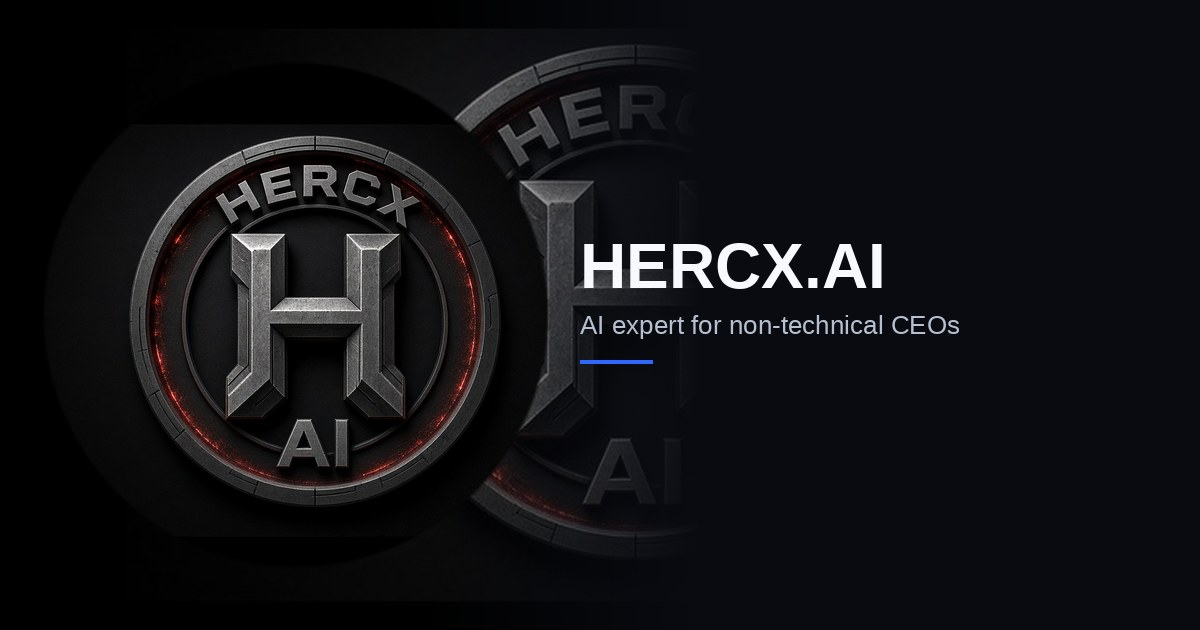
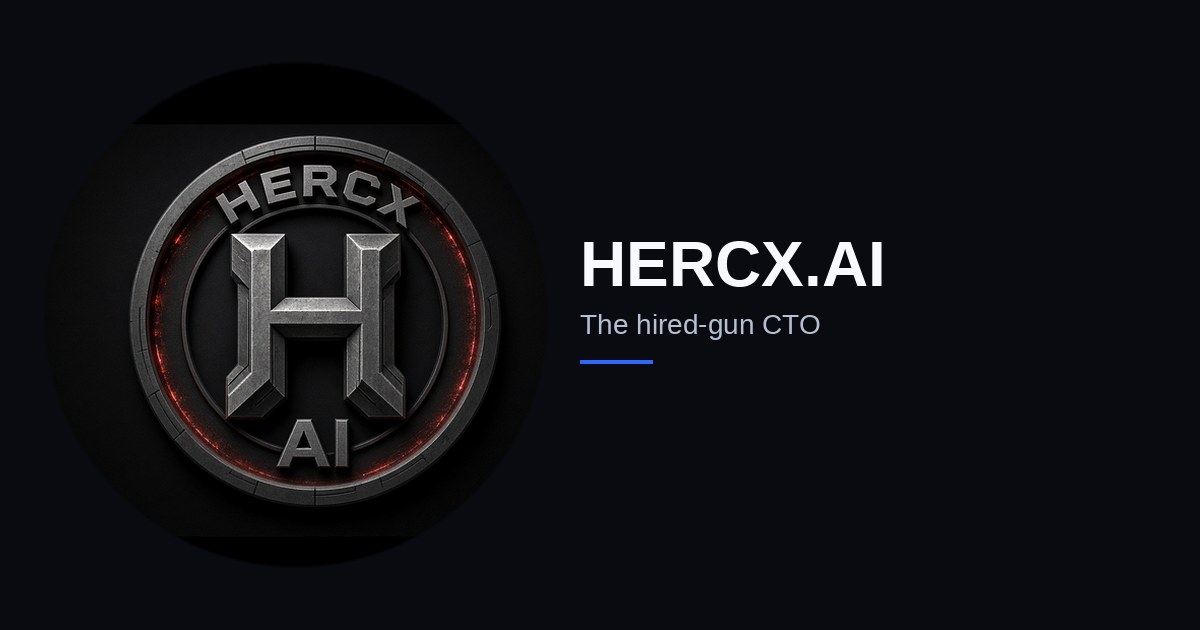
Reposition Hercx as the hired-gun CTO
Every founder and CEO can use Hercx CTO like a real CTO.

diff --git a/index.html b/index.html
@@ -3,17 +3,17 @@
 <head>
   <meta charset="utf-8" />
   <meta name="viewport" content="width=device-width, initial-scale=1" />
-  <title>Hercx.ai — AI expert for non-technical CEOs</title>
-  <meta name="description" content="Hercx turns the questions stuck in your head into clear answers, focused next steps, and the operating context to move with confidence." />
+  <title>Hercx.ai — The hired-gun CTO</title>
+  <meta name="description" content="Every founder. Every CEO. Use Hercx CTO just like a real CTO — stack, team, incidents, and the next ship date, without putting one on payroll." />
   <link rel="canonical" href="https://hercx.ai/" />
   <meta property="og:type" content="website" />
   <meta property="og:url" content="https://hercx.ai/" />
-  <meta property="og:title" content="Hercx.ai — AI expert for non-technical CEOs" />
-  <meta property="og:description" content="Your AI expert for the decisions only you can make." />
+  <meta property="og:title" content="Hercx.ai — The hired-gun CTO" />
+  <meta property="og:description" content="Every founder. Every CEO. Use Hercx CTO just like a real CTO." />
   <meta property="og:site_name" content="Hercx.ai" />
   <meta name="twitter:card" content="summary_large_image" />
-  <meta name="twitter:title" content="Hercx.ai — AI expert for non-technical CEOs" />
-  <meta name="twitter:description" content="Your AI expert for the decisions only you can make." />
+  <meta name="twitter:title" content="Hercx.ai — The hired-gun CTO" />
+  <meta name="twitter:description" content="Every founder. Every CEO. Use Hercx CTO just like a real CTO." />
   <meta name="theme-color" content="#090b11" />
   <link rel="icon" href="favicon.svg" type="image/svg+xml" />
   <link rel="icon" href="brand/seal-256.png" type="image/png" sizes="256x256" />
@@ -276,32 +276,32 @@
       <a class="brand" href="/"><img src="brand/seal-mark.png" alt="" width="40" height="40" />Hercx<span>.ai</span></a>
       <nav class="nav-links">
         <a href="#how">How it works</a>
-        <a href="#outcomes">Executive outcomes</a>
-        <a href="#access">Request access</a>
+        <a href="#seat">The CTO seat</a>
+        <a href="#access">Request a seat</a>
       </nav>
-      <a class="btn btn-primary btn-sm nav-cta" href="#access">Request access</a>
+      <a class="btn btn-primary btn-sm nav-cta" href="#access">Request a seat</a>
       <button class="menu-btn" type="button" aria-expanded="false" aria-controls="mobile-nav" aria-label="Open menu" id="menu-btn">
         <svg width="20" height="20" viewBox="0 0 24 24" fill="none" stroke="currentColor" stroke-width="2" aria-hidden="true"><path d="M4 6h16M4 12h16M4 18h16"/></svg>
       </button>
     </div>
     <div class="mobile-nav" id="mobile-nav" hidden>
       <a href="#how">How it works</a>
-      <a href="#outcomes">Executive outcomes</a>
-      <a href="#access">Request access</a>
+      <a href="#seat">The CTO seat</a>
+      <a href="#access">Request a seat</a>
     </div>
   </header>
 
   <main>
     <section class="wrap hero">
       <div>
-        <p class="eyebrow">The AI expert for non-technical CEOs</p>
-        <h1 class="display">Your AI expert for the decisions only you can make.</h1>
-        <p class="lede">Hercx turns the questions stuck in your head into clear answers, focused next steps, and the operating context to move with confidence.</p>
+        <p class="eyebrow">Hired-gun CTO</p>
+        <h1 class="display">The hired-gun CTO.</h1>
+        <p class="lede">Every founder. Every CEO. Use Hercx CTO just like a real CTO — stack, team, incidents, and the next ship date, without putting one on payroll.</p>
         <div class="hero-actions">
-          <a class="btn btn-primary" href="#access">Meet Hercx</a>
+          <a class="btn btn-primary" href="#access">Get Hercx CTO</a>
           <a class="btn btn-ghost" href="#how">See how it works</a>
         </div>
-        <p class="note"><span class="dot"></span> No technical translation layer required.</p>
+        <p class="note"><span class="dot"></span> Same seat as a real CTO. No equity package required.</p>
       </div>
 
       <div class="hero-seal">
@@ -310,18 +310,18 @@
     </section>
 
     <section class="wrap" style="padding-top:0">
-      <aside class="briefing" aria-label="Hercx CEO briefing">
+      <aside class="briefing" aria-label="Hercx CTO desk">
         <div class="briefing-top">
           <span style="display:flex;align-items:center;gap:8px">
             <img src="brand/seal-mark.png" alt="" width="20" height="20" style="border-radius:50%" />
-            Hercx / CEO briefing
+            Hercx / CTO desk
           </span>
           <span class="live">Live context</span>
         </div>
         <div class="focus">
-          <div class="kicker">Today’s focus</div>
-          <h3 class="display">Protect pipeline without delaying the next hire.</h3>
-          <p class="copy">Hercx found a move that protects momentum while keeping the operating plan intact.</p>
+          <div class="kicker">Today’s call</div>
+          <h3 class="display">Ship the platform without delaying the next hire.</h3>
+          <p class="copy">Hercx found a cut that protects the ship date and keeps the engineering plan intact.</p>
         </div>
         <div class="metrics">
           <div class="metric">
@@ -330,29 +330,29 @@
             <p class="copy">Up 0.8 this quarter</p>
           </div>
           <div class="metric">
-            <div class="kicker">Ready now</div>
+            <div class="kicker">Open calls</div>
             <b>03</b>
-            <p class="copy">Decisions need your call</p>
+            <p class="copy">Need the CTO voice</p>
           </div>
         </div>
         <div class="signal">
           <div class="signal-ico">~</div>
           <div>
-            <strong>A customer signal just changed.</strong>
-            <p class="copy">Hercx connected the change to this week’s executive priorities.</p>
+            <strong>A production signal just changed.</strong>
+            <p class="copy">Hercx tied it to this week’s architecture and hiring calls.</p>
           </div>
         </div>
-        <div class="layer">Executive reasoning layer</div>
+        <div class="layer">Technical command layer</div>
       </aside>
     </section>
 
-    <section class="wrap section" id="outcomes">
+    <section class="wrap section" id="seat">
       <div class="split">
         <div>
-          <p class="label">The CEO operating system</p>
-          <h2 class="display">Less searching. More decisive moves.</h2>
+          <p class="label">The CTO seat</p>
+          <h2 class="display">The technical seat, without the org chart.</h2>
         </div>
-        <p class="copy">Hercx organizes the signal around the questions that matter to a CEO—then makes the next move legible before the moment passes.</p>
+        <p class="copy">Founders and CEOs use Hercx the same way they’d use a hired CTO: one voice on the stack, the team, and the next ship date — in the room when it counts.</p>
       </div>
     </section>
 
@@ -360,18 +360,18 @@
       <div class="steps">
         <article class="step">
           <div class="num">01</div>
-          <h3 class="display">Ask in plain English.</h3>
-          <p class="copy">Start with the question you already have. Hercx meets you in the context of your company.</p>
+          <h3 class="display">Drop the problem.</h3>
+          <p class="copy">Stack, team, deadline, fire. Hercx meets you in the engineering context of your company.</p>
         </article>
         <article class="step">
           <div class="num">02</div>
-          <h3 class="display">See the real trade-off.</h3>
-          <p class="copy">Get the upside, risk, and second-order effects in the same executive view—without the spreadsheet chase.</p>
+          <h3 class="display">Get the CTO call.</h3>
+          <p class="copy">Architecture, risk, and the move a real CTO would make — without a week of status theater.</p>
         </article>
         <article class="step">
           <div class="num">03</div>
-          <h3 class="display">Act with the room.</h3>
-          <p class="copy">Bring a recommendation that connects the decision to the business—not just another task to debate.</p>
+          <h3 class="display">Run it like you have one.</h3>
+          <p class="copy">Hiring screens, vendor cuts, incident judgment, the next ship. One seat. One voice.</p>
         </article>
       </div>
     </section>
@@ -379,9 +379,9 @@
     <section class="wrap section" id="access">
       <div class="cta-band">
         <div>
-          <p class="label">Your next briefing</p>
-          <h2 class="display">The next hard question deserves a clear answer.</h2>
-          <p class="copy" style="margin-top:16px">Tell Hercx what is changing. It will carry the context—so you can carry the decision.</p>
+          <p class="label">Put a CTO in the seat</p>
+          <h2 class="display">The next hard technical call deserves a CTO in the room.</h2>
+          <p class="copy" style="margin-top:16px">Tell Hercx what’s on fire. It will carry the stack — so you can carry the company.</p>
         </div>
         <form id="access-form">
           <div class="form-row">
@@ -395,10 +395,10 @@
           <label>Company
             <input name="company" autocomplete="organization" />
           </label>
-          <label>What is changing?
-            <textarea name="question" placeholder="The decision on your desk this week."></textarea>
+          <label>What’s on the desk?
+            <textarea name="question" placeholder="The technical call you need a CTO for this week."></textarea>
           </label>
-          <button class="btn btn-primary" type="submit" id="access-submit">Request early access</button>
+          <button class="btn btn-primary" type="submit" id="access-submit">Request a CTO seat</button>
         </form>
       </div>
     </section>
@@ -406,7 +406,7 @@
 
   <div class="wrap">
     <footer>
-      <div>© 2026 Hercx.ai · AI executive intelligence</div>
+      <div>© 2026 Hercx.ai · Hired-gun CTO</div>
       <a href="mailto:jeff@hercx.ai">jeff@hercx.ai</a>
     </footer>
   </div>
@@ -450,11 +450,11 @@
             name && "Name: " + name,
             email && "Email: " + email,
             company && "Company: " + company,
-            question && "What is changing:\n" + question
+            question && "What’s on the desk:\n" + question
           ].filter(Boolean).join("\n");
           window.location.href =
             "mailto:jeff@hercx.ai?subject=" +
-            encodeURIComponent("Hercx early access") +
+            encodeURIComponent("Hercx CTO seat") +
             "&body=" +
             encodeURIComponent(body);
           var submit = document.getElementById("access-submit");

diff --git a/README.md b/README.md
@@ -1,8 +1,8 @@
 # hercx.ai
 
-Marketing site for Hercx — AI expert for non-technical CEOs.
+Marketing site for Hercx — the hired-gun CTO every founder and CEO can use like a real one.
 
-Static landing using the live Framer identity (Sora + Inter, navy `#090b11`, accent `#2F68FF`) and existing product copy. Wordmark only until Grok-bot logo files are supplied.
+Static landing using the Hercx seal, Sora + Inter, navy `#090b11`, accent `#2F68FF`.
 
 - Repo: https://github.com/HercxAi/hercx.ai
 - Current product page: https://hercx.framer.ai/
